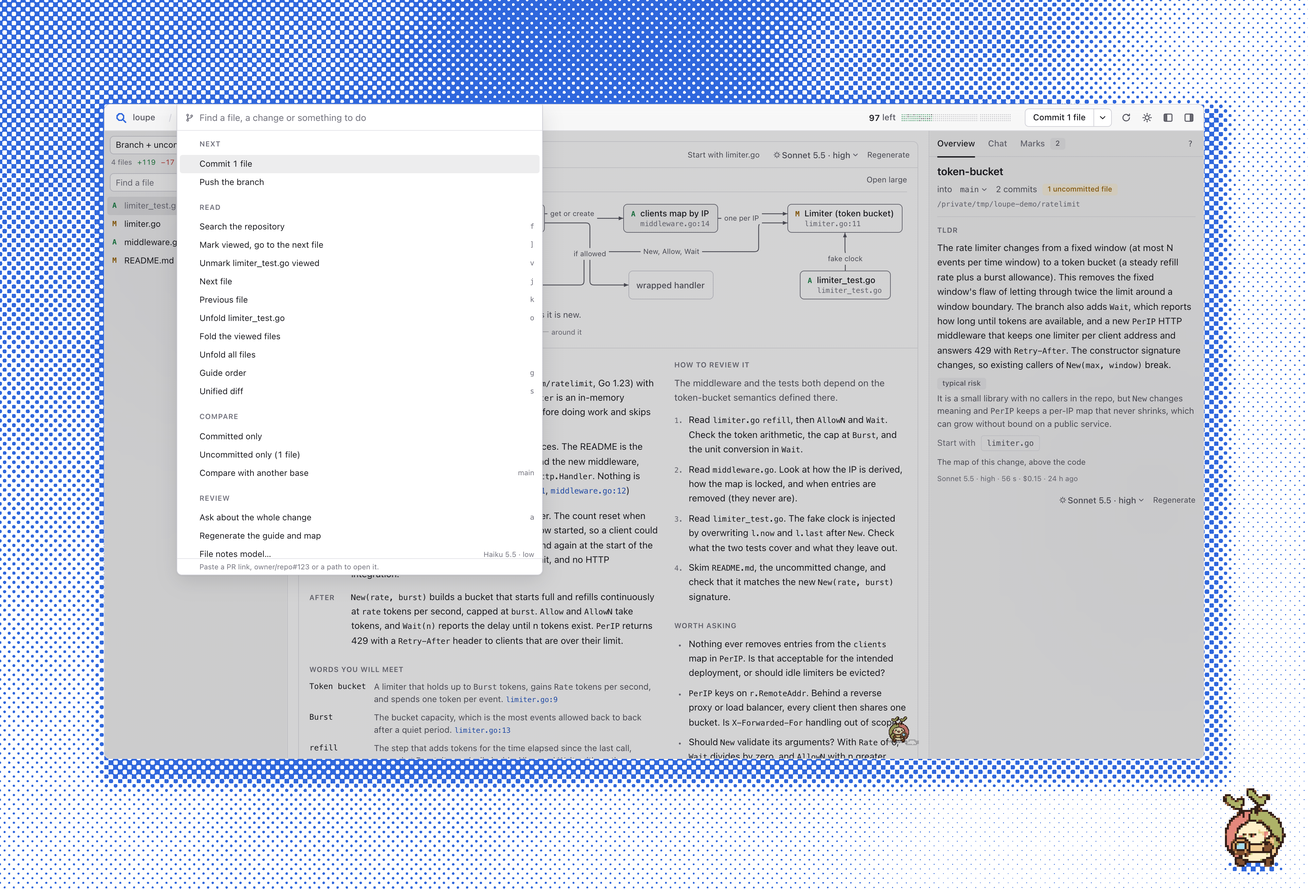
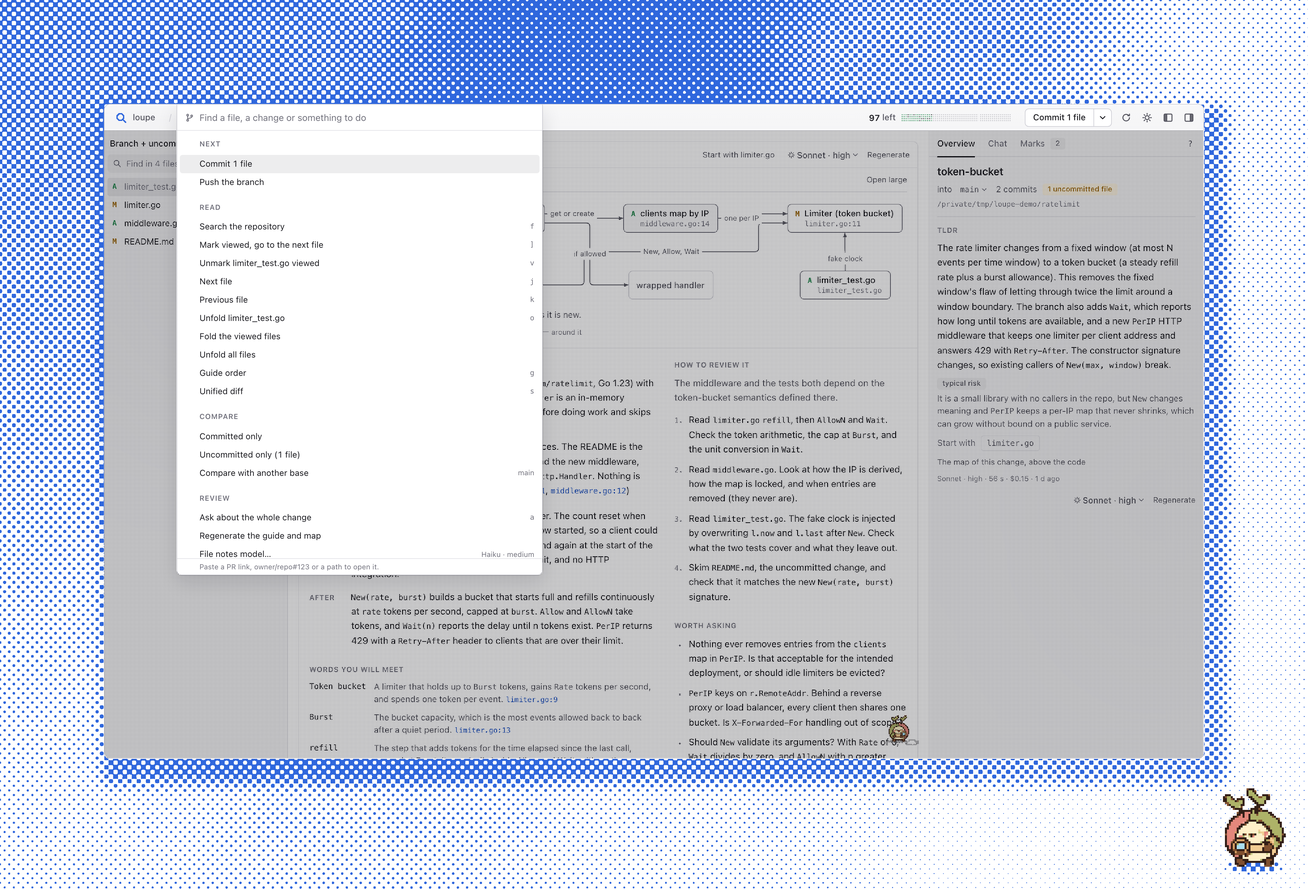
Workspace reads queue instead of racing; closing a change says what it keeps and what goes; ⌘K and home never say a number twice; new map and palette screenshots

diff --git a/web/js/main.js b/web/js/main.js
@@ -134,29 +134,42 @@ function wsTitle() {
   return `${icon}<span class="t" title="${esc(title)}">${esc(title)}</span>${by}<span class="r" title="${esc(sub)}">${esc(sub)}</span>${I.chev}`;
 }
 
-// The change's meta, then its files and review state. Called again whenever the change moves.
-// Answers draw in the order they arrive: one that waited on the opening's roll gives way to a newer answer, and a read
-// that failed outright draws only if no answer came while it was out and none waits. A drawn state stops a files read.
-let wsLoad = 0, readyWaiting = 0;
-async function loadWorkspace(reason) {
-  const id = S.id, before = wsLoad;
+// The change's meta, then its files and review state. Called again whenever the change moves. One read of the meta
+// runs at a time: a call while one runs asks for one more after it (the calls in between fold into it, keeping a
+// change's reason), so answers never cross and the newest is drawn last. The files are read outside the queue (their
+// own request number keeps the newest), so a slow one never holds the next read back.
+let wsRun = null, wsNext = null;
+function loadWorkspace(reason) {
+  if (wsRun) { wsNext = { reason: reason ?? wsNext?.reason }; return wsRun; }
+  wsRun = (async () => {
+    let files = null;
+    try {
+      for (let n = { reason }; n; n = wsNext, wsNext = null) {
+        try { files = (await readWorkspace(n.reason))?.files || files; } catch (e) { console.error(e); } // one read that throws never drops the next
+      }
+    } finally { wsRun = null; }
+    await files;
+  })();
+  return wsRun;
+}
+async function readWorkspace(reason) {
+  const id = S.id;
   let m;
-  try { m = await api(`/api/w/${id}`); } catch (e) { if (S.id === id && !readyWaiting && wsLoad === before) { ++wsLoad; fileRequest++; showState('Could not open this', e.message, true); } return; }
-  const seq = ++wsLoad, latest = () => seq === wsLoad && S.id === id;
+  try { m = await api(`/api/w/${id}`); } catch (e) { if (S.id === id) showState('Could not open this', e.message, true); return; }
   if (S.id !== id) return;
   if (m.status !== 'ready' || !m.headFull && m.kind === 'pr') {
-    fileRequest++;
     S.opening = { ...m, id: S.id }; // what the state box can show while it waits: a pull request's size, the refs of one that failed
     $('#wsbtn').innerHTML = `${m.kind === 'pr' ? I.pr : I.branch}<span class="t">${esc(m.rec?.pr?.title || m.rec?.slug || '')}</span>`;
     return showState(m.status === 'error' ? 'Could not open this' : 'Opening…', m.progress || '', m.status === 'error');
   }
   // the opening's roll finishes its pass before the change is drawn over it
-  readyWaiting++;
-  try { await endOpening(); } finally { readyWaiting--; }
-  if (!latest()) return;
+  await endOpening();
+  if (S.id !== id) return;
   S.ws = m; S.opening = null;
   $('#wsbtn').innerHTML = wsTitle();
-  await loadFiles(reason);
+  const files = loadFiles(reason);
+  files.catch((e) => console.error(e)); // a read that a newer one replaced is still said, never left unhandled
+  return { files };
 }
 // a daemon's or git's message, said as a sentence: capitalised, with its full stop
 // (a program's name leading it, "gh: …" or "git fetch: …", keeps its case)
@@ -838,7 +851,7 @@ function openPalette() {
       if (c) return head + `<button class="mi" ${sel}>${palGlyph()}<span class="ml" title="${esc(c.label)}">${esc(c.label)}</span>${palTrail(c.key ? `<kbd>${esc(c.key)}</kbd>` : c.on ? I.check : c.sub ? esc(c.sub) : '')}</button>`;
       const w = x.ws, left = w.left ? (w.left.lines ? w.left.lines.toLocaleString() : icon('check', '--ok')) : '';
       const repo = w.repo && w.repo !== w.title ? `<span class="rp">${esc(w.repo)}</span>` : '';
-      return head + `<button class="mi" ${sel}>${palGlyph(w.kind === 'pr' ? I.pr : I.branch)}<span class="ml" title="${esc(w.title)}${w.repo ? ` · ${esc(w.repo)}` : ''}">${w.kind === 'pr' ? `#${w.number} ` : ''}${esc(w.title)}${repo}</span>${palTrail(left)}</button>`;
+      return head + `<button class="mi" ${sel}>${palGlyph(w.kind === 'pr' ? I.pr : I.branch)}<span class="ml" title="${esc(w.title)}${w.repo ? ` · ${esc(w.repo)}` : ''}">${w.kind === 'pr' && !w.title.endsWith(`#${w.number}`) ? `#${w.number} ` : ''}${esc(w.title)}${repo}</span>${palTrail(left)}</button>`;
     }).join('') || `<div class="none">${q ? `Nothing matches “${esc(input.value.trim())}”.` : 'Nothing to show.'}</div>`;
     if (more > 0) list.insertAdjacentHTML('beforeend', `<div class="more">and ${more.toLocaleString()} more: keep typing to narrow them</div>`);
     list.querySelector('[aria-selected="true"]')?.scrollIntoView({ block: 'nearest' });
@@ -972,7 +985,7 @@ async function renderHome(error) {
       ...(gh ? [{ label: 'Open on GitHub', value: 'gh' }] : []),
       // hiding needs a daemon that keeps the list (settings.hiddenOrgs); an older one does not offer it
       ...(owner && Array.isArray(st.settings?.hiddenOrgs) ? [{ label: `Hide ${owner}'s pull requests`, value: 'hide' }] : []),
-      ...(ws ? [{ sep: true }, { label: 'Close it here', sub: 'its marks stay for next time', value: 'close' }] : []),
+      ...(ws ? [{ sep: true }, { label: 'Close it here', sub: 'its marks stay for next time', value: 'close', confirm: ws.startsWith('pr-') ? "Close it? loupe's checkout of it goes" : 'Close it? Its marks stay' }] : []),
     ], async (it) => {
       if (it.value === 'gh') open(gh, '_blank', 'noopener');
       if (it.value === 'hide') setHidden([...hidden, owner.toLowerCase()]);

diff --git a/web/js/sheets.js b/web/js/sheets.js
@@ -151,7 +151,7 @@ const SHEETS = {
         items: [
           'Takes it off home and out of ⌘K',
           n.length ? `Keeps its ${n.join(' and ')} for when you open it again` : 'Nothing to keep: no marks or chats yet',
-          pr ? "Removes loupe's own checkout of the pull request; opening it again fetches a fresh one" : 'Your checkout and its branch are untouched',
+          pr ? "Removes loupe's own checkout of the pull request, with anything edited in it; opening it again fetches a fresh one" : 'Your checkout and its branch are untouched',
         ],
         where: 'Back to home after', confirm: 'Close',
       };
